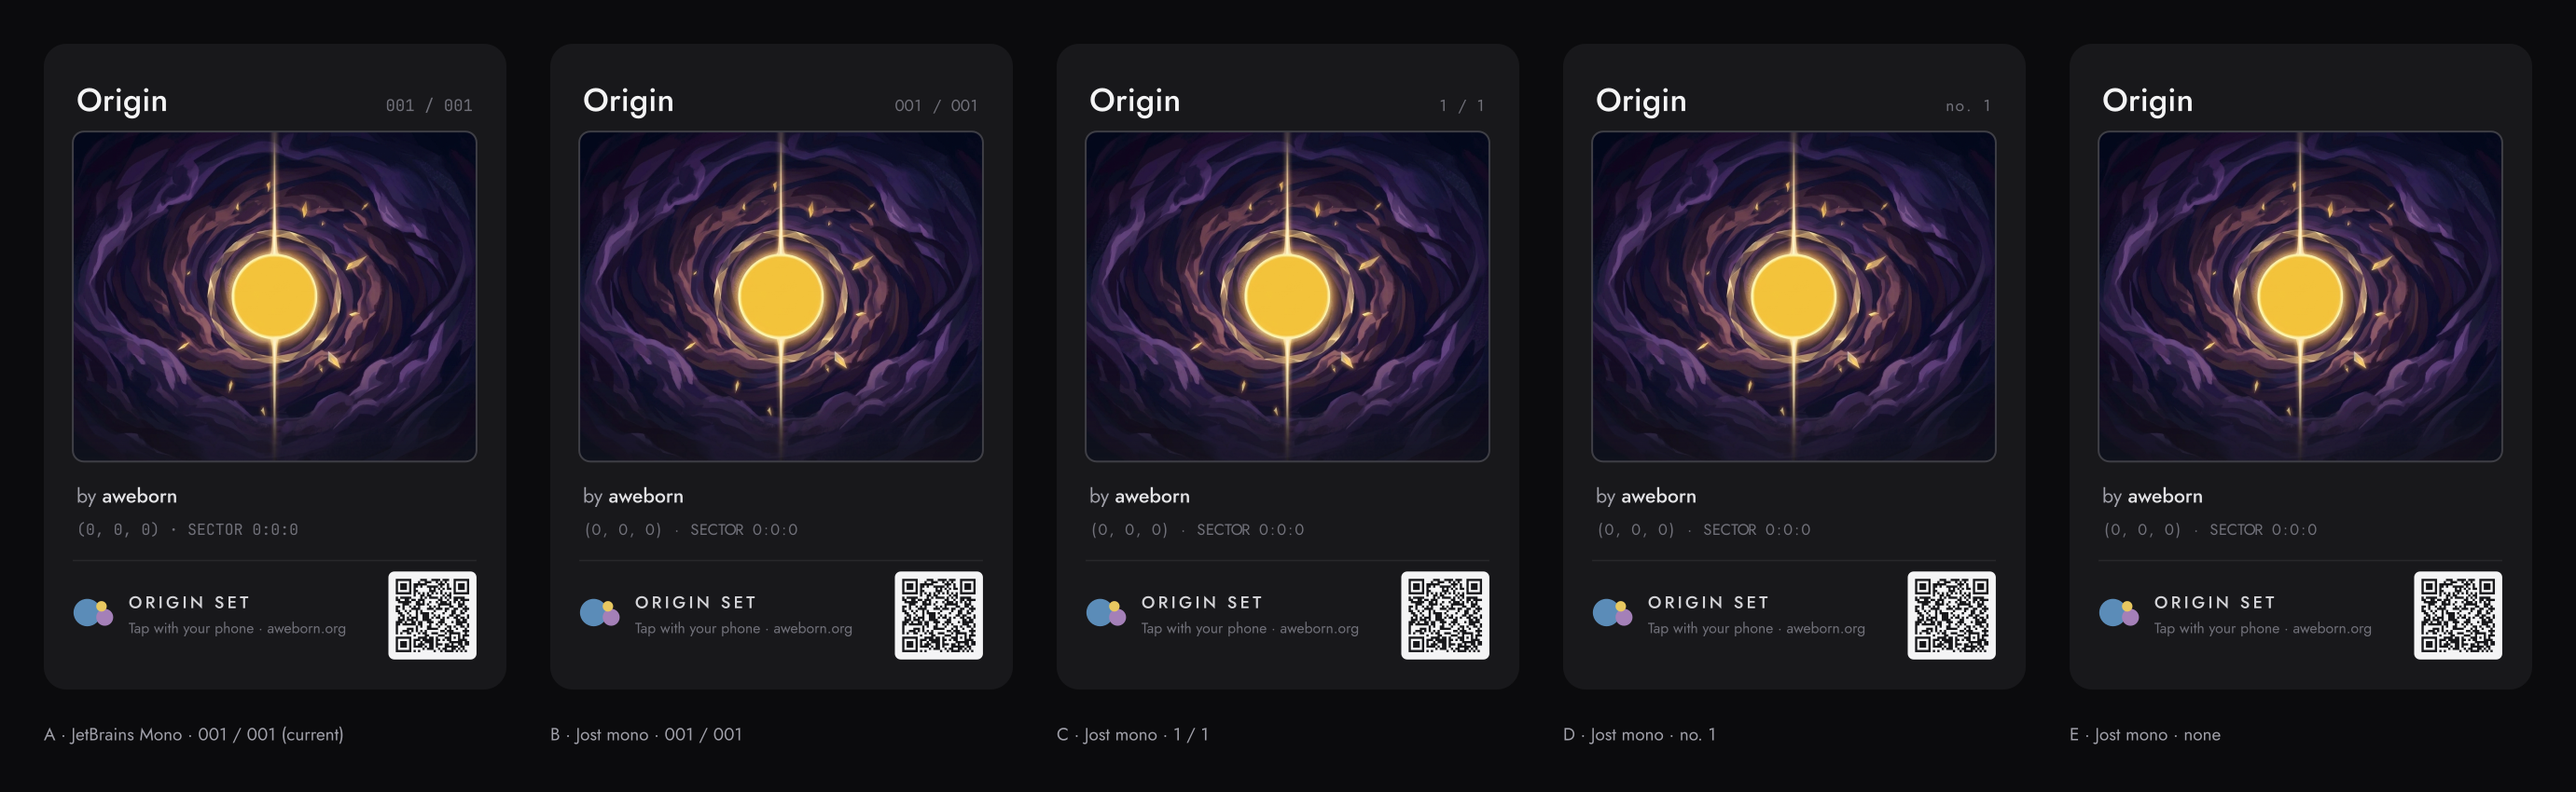
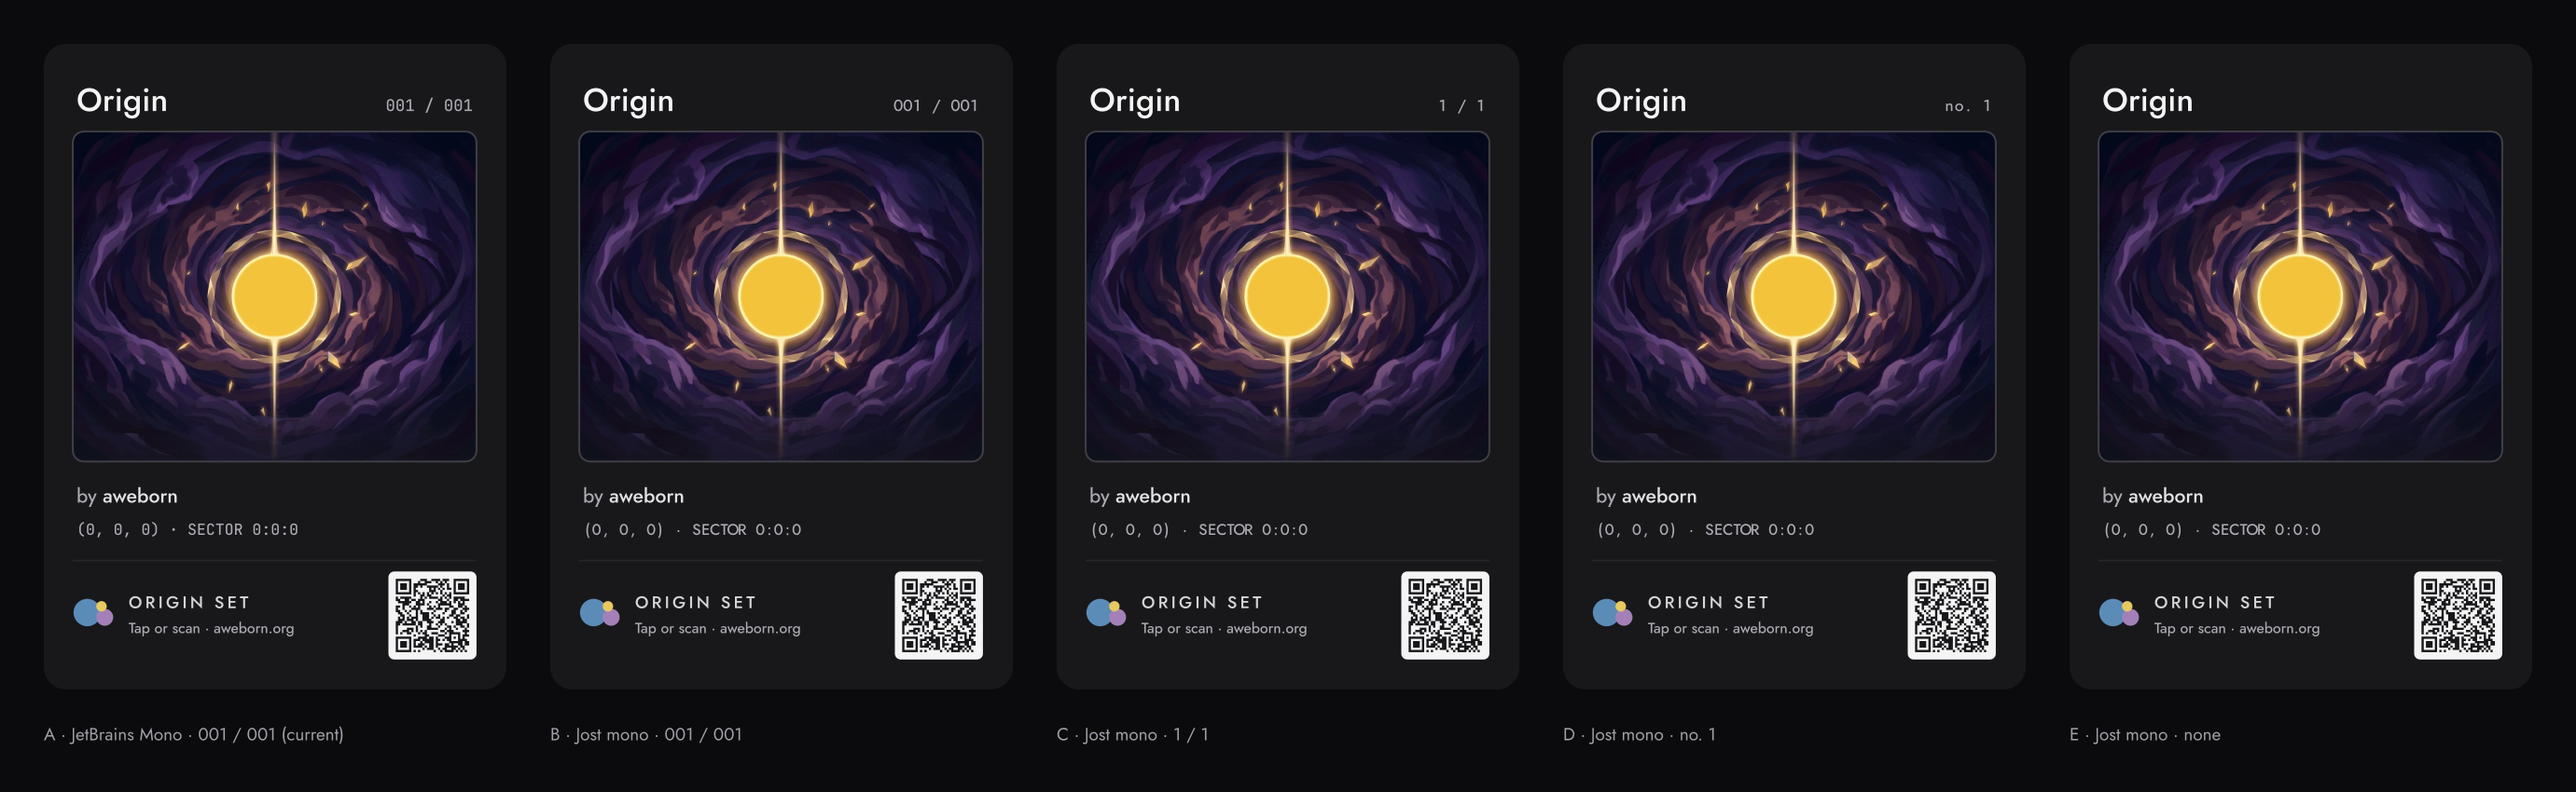
feat(cards): WCAG AAA text contrast on card front
- Secondary text #71717a (3.7:1) -> single muted grey #acacb4 (7.9:1); small text Jost 450
- renderFront fails the build if any text colour < 7:1 (assertTextContrast)
- explore-colors.mjs: palette candidates + rough print simulation
- Previews re-rendered; Phase 08 log updated

diff --git a/phases/08-nfc-trading-cards.md b/phases/08-nfc-trading-cards.md
@@ -236,3 +236,4 @@ Turn Aweborn worlds into **physical NFC trading cards**. Tap a phone to a card a
 | 2026-10-04 | World named **Origin** (deliberately open-ended). Front art is now vector: `scripts/cards/lib/art/origin.mjs` (portal: solid gold core, aura, full-height two-way beam; in-game colors; gradients/masks only). `renderFront` accepts `artSvg` as well as raster `artHref`. Card coordinates = the world's real rounded `resolvedPosition` (no offsets). | Decide whether Origin *is* the portal at `(0, 0, 0)` or a world beside it |
 | 2026-10-04 | **Origin = the portal at `(0, 0, 0)`** (8A task added to register it as a world). Vector art judged too plain; generated 3 painted, stylized, angular candidates (shards / geometric halo / beacon-over-clouds) and rendered each on the card. `render-preview.mjs` now takes `[art] [outDir]` (`vector` = lib/art/origin.mjs). | Pick the art |
 | 2026-10-04 | **Origin art chosen:** `cards/samples/origin-tunnel.jpg` (A2 veil + A3 nebula blend, pushed toward a deep spiral tunnel; calm, alluring). **Type:** all Jost. Data lines use a new `outline({ mono: true })` (Jost tabular figures + fixed cells, since there is no Jost Mono). **No set number on single-card sets** (Origin prints none). Multi-card sets pad to the set's width (`01 / 12`). Avoid `1 / 1`, which collectors read as one-of-one. **Footer:** "Tap or scan · aweborn.org" (covers NFC + the QR backup, names no device). `scripts/cards/explore-numbers.mjs` → `cards/explore/numbers.png`. | Optional: more orb glow in the art. Prune unused `cards/samples/` candidates. Await DTB quote |
+| 2026-10-04 | **Text colour: WCAG AAA (≥ 7:1) everywhere.** The old "faint" grey `#71717a` (coordinates, tap hint) was only 3.7:1. The palette is now two levels: primary (name 16.1, creator 14.0, set label 12.0) and one secondary `muted` `#acacb4` (7.9:1) for "by", the data line and the hint. The small text went from Jost 400 to 450 for print. `renderFront` now **fails the build** if any text colour is below 7:1 (`assertTextContrast`). Card type is about 6 pt, so the large-text allowance never applies. Back wordmark `#c9b7d6`: 8.4–9.8:1 across its gradient. Sheet: `scripts/cards/explore-colors.mjs` → `cards/explore/colors.png` (includes a rough print simulation). | Confirm on pilot cards (matte stock prints darker) |
